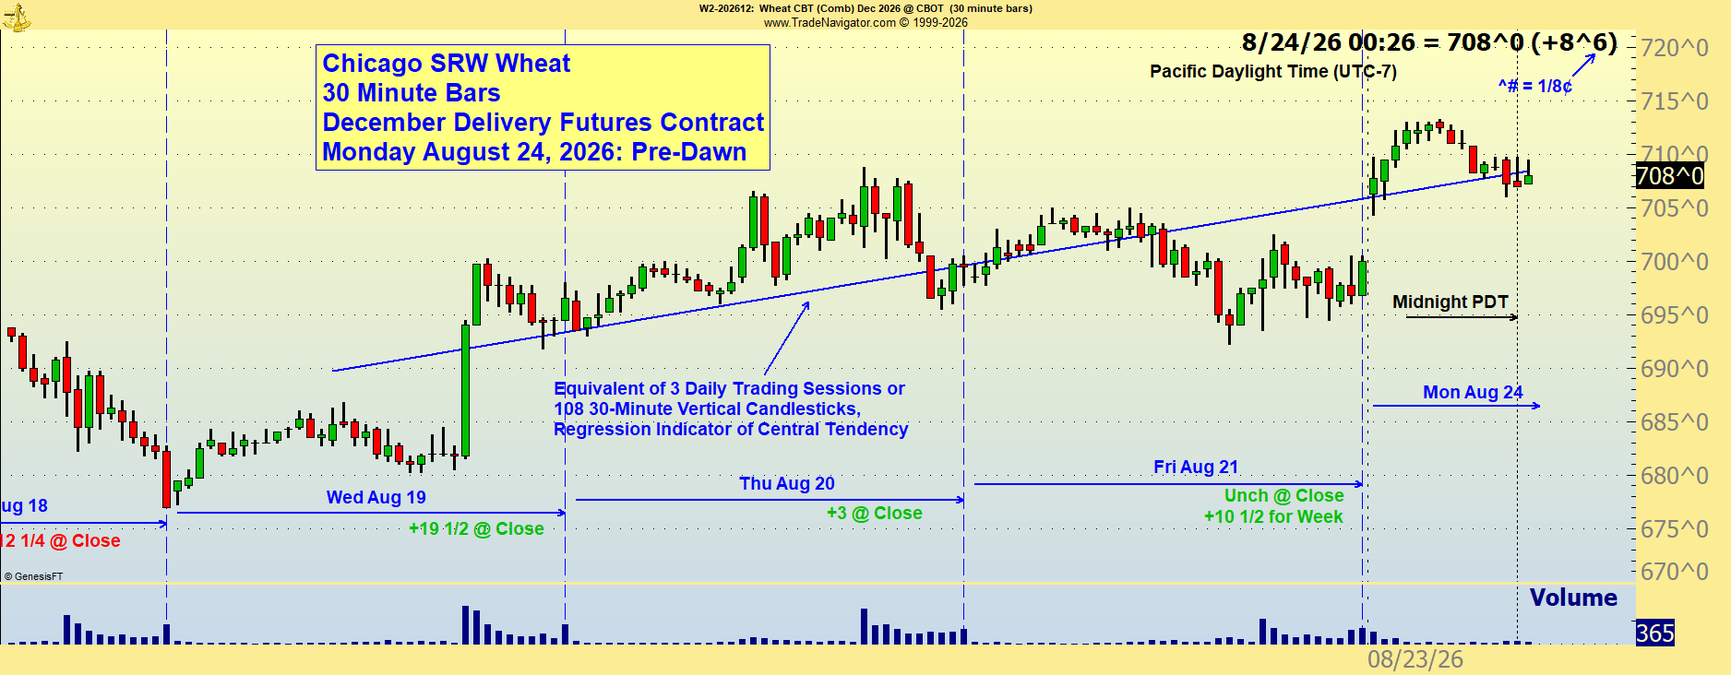
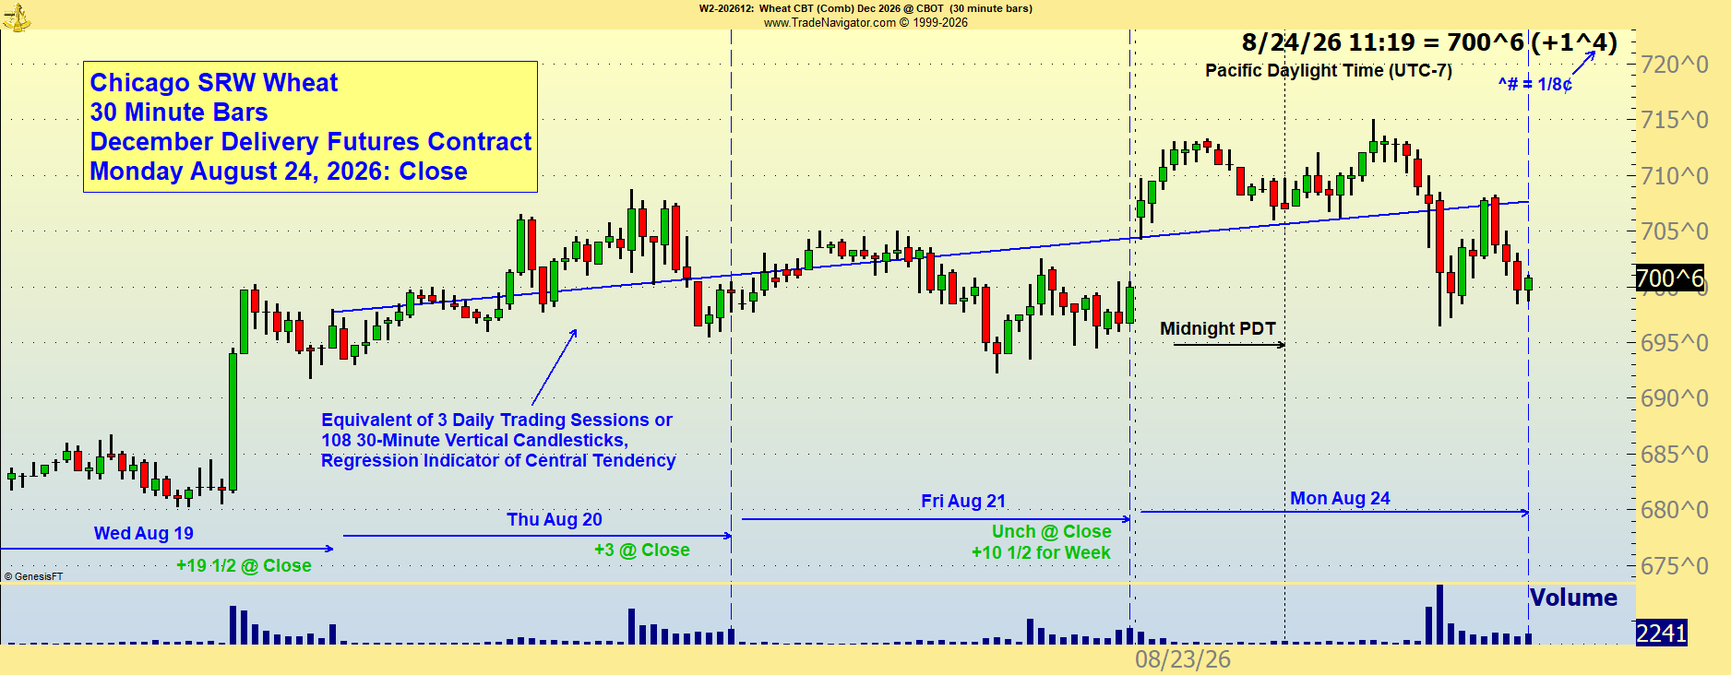
wheat close

diff --git a/devlogs/reports/report-2026-08-24.html b/devlogs/reports/report-2026-08-24.html
@@ -1,0 +1,184 @@
+<!DOCTYPE html>
+<html lang="en">
+<head>
+<meta charset="UTF-8">
+<meta name="viewport" content="width=device-width, initial-scale=1.0">
+<title>MarketBullets Daily Report 2026-08-24</title>
+<style>
+  :root {
+    --gold:  #D4A051;
+    --amber: #D4A574;
+    --blue:  #B8C5D6;
+    --bg:    #1a1a1a;
+    --line:  #2e2e2e;
+    --text:  #F5F5F0;
+    --dim:   #888;
+  }
+  * { box-sizing: border-box; margin: 0; padding: 0; }
+  body { font-family: Georgia, 'Times New Roman', serif; background: var(--bg);
+         color: var(--text); padding: 2rem 2.5rem; line-height: 1.6; }
+  header { border-bottom: 2px solid var(--gold); padding-bottom: 1rem; margin-bottom: 2rem; }
+  header h1 { color: var(--gold); font-size: 1.4rem; letter-spacing: 0.04em; }
+  header .meta { color: var(--blue); font-size: 0.85rem; margin-top: 0.25rem; }
+  h2 { color: var(--gold); font-size: 0.85rem; letter-spacing: 0.08em;
+       text-transform: uppercase; border-left: 3px solid var(--gold);
+       padding-left: 0.65rem; margin: 2rem 0 0.75rem; }
+  table { width: 100%; border-collapse: collapse; font-size: 0.875rem; }
+  th { text-align: left; color: var(--blue); padding: 0.4rem 0.6rem;
+       border-bottom: 1px solid var(--gold); font-family: 'Trebuchet MS', sans-serif;
+       font-size: 0.72rem; text-transform: uppercase; letter-spacing: 0.06em; }
+  td { padding: 0.35rem 0.6rem; border-bottom: 1px solid var(--line); vertical-align: middle; }
+  tr:hover td { background: #252525; }
+  a { color: var(--amber); text-decoration: none; }
+  a:hover { color: var(--gold); text-decoration: underline; }
+  .ts   { color: var(--dim); font-size: 0.8rem; font-family: monospace; white-space: nowrap; }
+  .ext  { color: var(--blue); font-size: 0.8rem; font-family: monospace; }
+  .empty { color: var(--dim); font-style: italic; padding: 0.6rem 0; }
+  footer { margin-top: 3rem; color: var(--dim); font-size: 0.75rem;
+           border-top: 1px solid var(--line); padding-top: 0.75rem;
+           font-family: 'Trebuchet MS', sans-serif; }
+</style>
+</head>
+<body>
+<header>
+  <h1>MarketBullets &mdash; Daily Activity Report</h1>
+  <div class="meta">2026-08-24 &nbsp;&bull;&nbsp; Generated 09:13</div>
+</header>
+<h2>Files Modified &mdash; Last 24 Hours</h2>
+<table>
+  <tr><th>Path</th><th>Type</th><th>Time</th><th>Size</th></tr>
+  <tr><td><a href='file:///C:/Users/hofer/OneDrive/Documents/GitHub/WEBSITECHARTS/tools/delay_updater.log'>tools/delay_updater.log</a></td><td class='ext'>.log</td><td class='ts'>01:49</td><td class='ts'>420 KB</td></tr>
+  <tr><td><a href='file:///C:/Users/hofer/OneDrive/Documents/GitHub/WEBSITECHARTS/charts/BNDS_30YR_Price_Q.png'>charts/BNDS_30YR_Price_Q.png</a></td><td class='ext'>.png</td><td class='ts'>01:49</td><td class='ts'>99.1 KB</td></tr>
+  <tr><td><a href='file:///C:/Users/hofer/OneDrive/Documents/GitHub/WEBSITECHARTS/charts/BNDS_10YR_Price_Q.png'>charts/BNDS_10YR_Price_Q.png</a></td><td class='ext'>.png</td><td class='ts'>01:49</td><td class='ts'>109.4 KB</td></tr>
+  <tr><td><a href='file:///C:/Users/hofer/OneDrive/Documents/GitHub/WEBSITECHARTS/charts/NRG_NG_M.png'>charts/NRG_NG_M.png</a></td><td class='ext'>.png</td><td class='ts'>01:48</td><td class='ts'>67.4 KB</td></tr>
+  <tr><td><a href='file:///C:/Users/hofer/OneDrive/Documents/GitHub/WEBSITECHARTS/charts/METL_HG_M.png'>charts/METL_HG_M.png</a></td><td class='ext'>.png</td><td class='ts'>01:46</td><td class='ts'>88.3 KB</td></tr>
+  <tr><td><a href='file:///C:/Users/hofer/OneDrive/Documents/GitHub/WEBSITECHARTS/charts/NRG_CL_W.png'>charts/NRG_CL_W.png</a></td><td class='ext'>.png</td><td class='ts'>01:45</td><td class='ts'>97.8 KB</td></tr>
+  <tr><td><a href='file:///C:/Users/hofer/OneDrive/Documents/GitHub/WEBSITECHARTS/charts/NRG_CL_M.png'>charts/NRG_CL_M.png</a></td><td class='ext'>.png</td><td class='ts'>01:44</td><td class='ts'>87.4 KB</td></tr>
+  <tr><td><a href='file:///C:/Users/hofer/OneDrive/Documents/GitHub/WEBSITECHARTS/charts/METL_GC_M.png'>charts/METL_GC_M.png</a></td><td class='ext'>.png</td><td class='ts'>01:44</td><td class='ts'>81.5 KB</td></tr>
+  <tr><td><a href='file:///C:/Users/hofer/OneDrive/Documents/GitHub/WEBSITECHARTS/charts/FX_WD_M.png'>charts/FX_WD_M.png</a></td><td class='ext'>.png</td><td class='ts'>01:43</td><td class='ts'>81.6 KB</td></tr>
+  <tr><td><a href='file:///C:/Users/hofer/OneDrive/Documents/GitHub/WEBSITECHARTS/charts/FX_RUB_USD_M.png'>charts/FX_RUB_USD_M.png</a></td><td class='ext'>.png</td><td class='ts'>01:42</td><td class='ts'>97 KB</td></tr>
+  <tr><td><a href='file:///C:/Users/hofer/OneDrive/Documents/GitHub/WEBSITECHARTS/charts/IDX_DXY_M.png'>charts/IDX_DXY_M.png</a></td><td class='ext'>.png</td><td class='ts'>01:42</td><td class='ts'>76.4 KB</td></tr>
+  <tr><td><a href='file:///C:/Users/hofer/OneDrive/Documents/GitHub/WEBSITECHARTS/charts/FX_CNY_USD_M.png'>charts/FX_CNY_USD_M.png</a></td><td class='ext'>.png</td><td class='ts'>01:41</td><td class='ts'>102.3 KB</td></tr>
+  <tr><td><a href='file:///C:/Users/hofer/OneDrive/Documents/GitHub/WEBSITECHARTS/charts/IDX_GSCI_W.png'>charts/IDX_GSCI_W.png</a></td><td class='ext'>.png</td><td class='ts'>01:41</td><td class='ts'>118.4 KB</td></tr>
+  <tr><td><a href='file:///C:/Users/hofer/OneDrive/Documents/GitHub/WEBSITECHARTS/charts/FX_RUB_CNY_W.png'>charts/FX_RUB_CNY_W.png</a></td><td class='ext'>.png</td><td class='ts'>01:41</td><td class='ts'>105.6 KB</td></tr>
+  <tr><td><a href='file:///C:/Users/hofer/OneDrive/Documents/GitHub/WEBSITECHARTS/charts/IDX_ES_M.png'>charts/IDX_ES_M.png</a></td><td class='ext'>.png</td><td class='ts'>01:39</td><td class='ts'>74.3 KB</td></tr>
+  <tr><td><a href='file:///C:/Users/hofer/OneDrive/Documents/GitHub/WEBSITECHARTS/charts/BNDS_2YR_TNOTE_W.png'>charts/BNDS_2YR_TNOTE_W.png</a></td><td class='ext'>.png</td><td class='ts'>01:38</td><td class='ts'>106.8 KB</td></tr>
+  <tr><td><a href='file:///C:/Users/hofer/OneDrive/Documents/GitHub/WEBSITECHARTS/charts/FX_WD_D.png'>charts/FX_WD_D.png</a></td><td class='ext'>.png</td><td class='ts'>01:38</td><td class='ts'>93 KB</td></tr>
+  <tr><td><a href='file:///C:/Users/hofer/OneDrive/Documents/GitHub/WEBSITECHARTS/charts/METL_SI_D.png'>charts/METL_SI_D.png</a></td><td class='ext'>.png</td><td class='ts'>01:38</td><td class='ts'>84 KB</td></tr>
+  <tr><td><a href='file:///C:/Users/hofer/OneDrive/Documents/GitHub/WEBSITECHARTS/charts/METL_GC_D.png'>charts/METL_GC_D.png</a></td><td class='ext'>.png</td><td class='ts'>01:37</td><td class='ts'>91.5 KB</td></tr>
+  <tr><td><a href='file:///C:/Users/hofer/OneDrive/Documents/GitHub/WEBSITECHARTS/charts/IDX_ES_D.png'>charts/IDX_ES_D.png</a></td><td class='ext'>.png</td><td class='ts'>01:37</td><td class='ts'>95.2 KB</td></tr>
+  <tr><td><a href='file:///C:/Users/hofer/OneDrive/Documents/GitHub/WEBSITECHARTS/charts/IDX_DXY_W.png'>charts/IDX_DXY_W.png</a></td><td class='ext'>.png</td><td class='ts'>01:37</td><td class='ts'>134.2 KB</td></tr>
+  <tr><td><a href='file:///C:/Users/hofer/OneDrive/Documents/GitHub/WEBSITECHARTS/tools/auto_commit.log'>tools/auto_commit.log</a></td><td class='ext'>.log</td><td class='ts'>01:23</td><td class='ts'>872.9 KB</td></tr>
+  <tr><td><a href='file:///C:/Users/hofer/OneDrive/Documents/GitHub/WEBSITECHARTS/charts/NRG_CL_D.png'>charts/NRG_CL_D.png</a></td><td class='ext'>.png</td><td class='ts'>01:22</td><td class='ts'>80.6 KB</td></tr>
+  <tr><td><a href='file:///C:/Users/hofer/OneDrive/Documents/GitHub/WEBSITECHARTS/charts/GRAIN_S_W.png'>charts/GRAIN_S_W.png</a></td><td class='ext'>.png</td><td class='ts'>01:19</td><td class='ts'>79.8 KB</td></tr>
+  <tr><td><a href='file:///C:/Users/hofer/OneDrive/Documents/GitHub/WEBSITECHARTS/charts/GRAIN_S_D.png'>charts/GRAIN_S_D.png</a></td><td class='ext'>.png</td><td class='ts'>01:18</td><td class='ts'>87.8 KB</td></tr>
+  <tr><td><a href='file:///C:/Users/hofer/OneDrive/Documents/GitHub/WEBSITECHARTS/charts/GRAIN_C_W.png'>charts/GRAIN_C_W.png</a></td><td class='ext'>.png</td><td class='ts'>01:18</td><td class='ts'>87.2 KB</td></tr>
+  <tr><td><a href='file:///C:/Users/hofer/OneDrive/Documents/GitHub/WEBSITECHARTS/charts/GRAIN_C_D.png'>charts/GRAIN_C_D.png</a></td><td class='ext'>.png</td><td class='ts'>01:16</td><td class='ts'>106.6 KB</td></tr>
+  <tr><td><a href='file:///C:/Users/hofer/OneDrive/Documents/GitHub/WEBSITECHARTS/charts/WHEAT_HRS_W.png'>charts/WHEAT_HRS_W.png</a></td><td class='ext'>.png</td><td class='ts'>01:13</td><td class='ts'>104.2 KB</td></tr>
+  <tr><td><a href='file:///C:/Users/hofer/OneDrive/Documents/GitHub/WEBSITECHARTS/charts/WHEAT_HRS_D.png'>charts/WHEAT_HRS_D.png</a></td><td class='ext'>.png</td><td class='ts'>01:12</td><td class='ts'>90.5 KB</td></tr>
+  <tr><td><a href='file:///C:/Users/hofer/OneDrive/Documents/GitHub/WEBSITECHARTS/charts/WHEAT_HRW_D.png'>charts/WHEAT_HRW_D.png</a></td><td class='ext'>.png</td><td class='ts'>01:11</td><td class='ts'>98.4 KB</td></tr>
+  <tr><td><a href='file:///C:/Users/hofer/OneDrive/Documents/GitHub/WEBSITECHARTS/charts/WHEAT_FWH_M.png'>charts/WHEAT_FWH_M.png</a></td><td class='ext'>.png</td><td class='ts'>01:10</td><td class='ts'>105.9 KB</td></tr>
+  <tr><td><a href='file:///C:/Users/hofer/OneDrive/Documents/GitHub/WEBSITECHARTS/charts/WHEAT_FWH_D.png'>charts/WHEAT_FWH_D.png</a></td><td class='ext'>.png</td><td class='ts'>01:08</td><td class='ts'>113 KB</td></tr>
+  <tr><td><a href='file:///C:/Users/hofer/OneDrive/Documents/GitHub/WEBSITECHARTS/charts/WHEAT_SRW_D.png'>charts/WHEAT_SRW_D.png</a></td><td class='ext'>.png</td><td class='ts'>01:04</td><td class='ts'>113.4 KB</td></tr>
+  <tr><td><a href='file:///C:/Users/hofer/OneDrive/Documents/GitHub/WEBSITECHARTS/charts/WHEAT_SRW_BOR_D.png'>charts/WHEAT_SRW_BOR_D.png</a></td><td class='ext'>.png</td><td class='ts'>01:04</td><td class='ts'>129.2 KB</td></tr>
+  <tr><td><a href='file:///C:/Users/hofer/OneDrive/Documents/GitHub/WEBSITECHARTS/charts/WHEAT_SRW_A.png'>charts/WHEAT_SRW_A.png</a></td><td class='ext'>.png</td><td class='ts'>01:03</td><td class='ts'>119.1 KB</td></tr>
+  <tr><td><a href='file:///C:/Users/hofer/OneDrive/Documents/GitHub/WEBSITECHARTS/charts/WHEAT_SRW_W.png'>charts/WHEAT_SRW_W.png</a></td><td class='ext'>.png</td><td class='ts'>01:03</td><td class='ts'>127.8 KB</td></tr>
+  <tr><td><a href='file:///C:/Users/hofer/OneDrive/Documents/GitHub/WEBSITECHARTS/charts/WHEAT_SRW_Special_M.png'>charts/WHEAT_SRW_Special_M.png</a></td><td class='ext'>.png</td><td class='ts'>01:03</td><td class='ts'>96.9 KB</td></tr>
+  <tr><td><a href='file:///C:/Users/hofer/OneDrive/Documents/GitHub/WEBSITECHARTS/charts/WHEAT_SRW_M.png'>charts/WHEAT_SRW_M.png</a></td><td class='ext'>.png</td><td class='ts'>01:02</td><td class='ts'>91.3 KB</td></tr>
+  <tr><td><a href='file:///C:/Users/hofer/OneDrive/Documents/GitHub/WEBSITECHARTS/charts/WHEAT_HRW_W.png'>charts/WHEAT_HRW_W.png</a></td><td class='ext'>.png</td><td class='ts'>01:01</td><td class='ts'>114.2 KB</td></tr>
+  <tr><td><a href='file:///C:/Users/hofer/OneDrive/Documents/GitHub/WEBSITECHARTS/charts/WHEAT_HRW_M.png'>charts/WHEAT_HRW_M.png</a></td><td class='ext'>.png</td><td class='ts'>01:00</td><td class='ts'>93.1 KB</td></tr>
+  <tr><td><a href='file:///C:/Users/hofer/OneDrive/Documents/GitHub/WEBSITECHARTS/charts/WHEAT_SRW_30Min.png'>charts/WHEAT_SRW_30Min.png</a></td><td class='ext'>.png</td><td class='ts'>00:37</td><td class='ts'>89.8 KB</td></tr>
+  <tr><td><a href='file:///C:/Users/hofer/OneDrive/Documents/GitHub/WEBSITECHARTS/charts/10daydelay/.last_updated'>charts/10daydelay/.last_updated</a></td><td class='ext'>.last_updated</td><td class='ts'>00:36</td><td class='ts'>10 B</td></tr>
+  <tr><td><a href='file:///C:/Users/hofer/OneDrive/Documents/GitHub/WEBSITECHARTS/charts/10daydelay/WHEAT_SRW_WOLD.png'>charts/10daydelay/WHEAT_SRW_WOLD.png</a></td><td class='ext'>.png</td><td class='ts'>00:36</td><td class='ts'>129.6 KB</td></tr>
+  <tr><td><a href='file:///C:/Users/hofer/OneDrive/Documents/GitHub/WEBSITECHARTS/charts/10daydelay/WHEAT_SRW_Special_MOLD.png'>charts/10daydelay/WHEAT_SRW_Special_MOLD.png</a></td><td class='ext'>.png</td><td class='ts'>00:36</td><td class='ts'>85.9 KB</td></tr>
+  <tr><td><a href='file:///C:/Users/hofer/OneDrive/Documents/GitHub/WEBSITECHARTS/charts/10daydelay/WHEAT_SRW_MOLD.png'>charts/10daydelay/WHEAT_SRW_MOLD.png</a></td><td class='ext'>.png</td><td class='ts'>00:36</td><td class='ts'>89.8 KB</td></tr>
+  <tr><td><a href='file:///C:/Users/hofer/OneDrive/Documents/GitHub/WEBSITECHARTS/charts/10daydelay/WHEAT_SRW_DOLD.png'>charts/10daydelay/WHEAT_SRW_DOLD.png</a></td><td class='ext'>.png</td><td class='ts'>00:36</td><td class='ts'>105.7 KB</td></tr>
+  <tr><td><a href='file:///C:/Users/hofer/OneDrive/Documents/GitHub/WEBSITECHARTS/charts/10daydelay/WHEAT_SRW_BOR_DOLD.png'>charts/10daydelay/WHEAT_SRW_BOR_DOLD.png</a></td><td class='ext'>.png</td><td class='ts'>00:36</td><td class='ts'>141.6 KB</td></tr>
+  <tr><td><a href='file:///C:/Users/hofer/OneDrive/Documents/GitHub/WEBSITECHARTS/charts/10daydelay/WHEAT_SRW_AOLD.png'>charts/10daydelay/WHEAT_SRW_AOLD.png</a></td><td class='ext'>.png</td><td class='ts'>00:36</td><td class='ts'>118.2 KB</td></tr>
+  <tr><td><a href='file:///C:/Users/hofer/OneDrive/Documents/GitHub/WEBSITECHARTS/charts/10daydelay/WHEAT_SRW_30MinOLD.png'>charts/10daydelay/WHEAT_SRW_30MinOLD.png</a></td><td class='ext'>.png</td><td class='ts'>00:36</td><td class='ts'>89.6 KB</td></tr>
+  <tr><td><a href='file:///C:/Users/hofer/OneDrive/Documents/GitHub/WEBSITECHARTS/charts/10daydelay/WHEAT_HRW_WOLD.png'>charts/10daydelay/WHEAT_HRW_WOLD.png</a></td><td class='ext'>.png</td><td class='ts'>00:36</td><td class='ts'>128.8 KB</td></tr>
+  <tr><td><a href='file:///C:/Users/hofer/OneDrive/Documents/GitHub/WEBSITECHARTS/charts/10daydelay/WHEAT_HRW_MOLD.png'>charts/10daydelay/WHEAT_HRW_MOLD.png</a></td><td class='ext'>.png</td><td class='ts'>00:36</td><td class='ts'>89.2 KB</td></tr>
+  <tr><td><a href='file:///C:/Users/hofer/OneDrive/Documents/GitHub/WEBSITECHARTS/charts/10daydelay/WHEAT_HRW_DOLD.png'>charts/10daydelay/WHEAT_HRW_DOLD.png</a></td><td class='ext'>.png</td><td class='ts'>00:36</td><td class='ts'>96.6 KB</td></tr>
+  <tr><td><a href='file:///C:/Users/hofer/OneDrive/Documents/GitHub/WEBSITECHARTS/charts/10daydelay/WHEAT_HRS_WOLD.png'>charts/10daydelay/WHEAT_HRS_WOLD.png</a></td><td class='ext'>.png</td><td class='ts'>00:36</td><td class='ts'>96.6 KB</td></tr>
+  <tr><td><a href='file:///C:/Users/hofer/OneDrive/Documents/GitHub/WEBSITECHARTS/charts/10daydelay/WHEAT_HRS_MOLD.png'>charts/10daydelay/WHEAT_HRS_MOLD.png</a></td><td class='ext'>.png</td><td class='ts'>00:36</td><td class='ts'>85.7 KB</td></tr>
+  <tr><td><a href='file:///C:/Users/hofer/OneDrive/Documents/GitHub/WEBSITECHARTS/charts/10daydelay/WHEAT_HRS_DOLD.png'>charts/10daydelay/WHEAT_HRS_DOLD.png</a></td><td class='ext'>.png</td><td class='ts'>00:36</td><td class='ts'>96 KB</td></tr>
+  <tr><td><a href='file:///C:/Users/hofer/OneDrive/Documents/GitHub/WEBSITECHARTS/charts/10daydelay/WHEAT_FWH_WOLD.png'>charts/10daydelay/WHEAT_FWH_WOLD.png</a></td><td class='ext'>.png</td><td class='ts'>00:36</td><td class='ts'>121 KB</td></tr>
+  <tr><td><a href='file:///C:/Users/hofer/OneDrive/Documents/GitHub/WEBSITECHARTS/charts/10daydelay/WHEAT_FWH_MOLD.png'>charts/10daydelay/WHEAT_FWH_MOLD.png</a></td><td class='ext'>.png</td><td class='ts'>00:36</td><td class='ts'>106.4 KB</td></tr>
+  <tr><td><a href='file:///C:/Users/hofer/OneDrive/Documents/GitHub/WEBSITECHARTS/charts/10daydelay/WHEAT_FWH_DOLD.png'>charts/10daydelay/WHEAT_FWH_DOLD.png</a></td><td class='ext'>.png</td><td class='ts'>00:36</td><td class='ts'>111.3 KB</td></tr>
+  <tr><td><a href='file:///C:/Users/hofer/OneDrive/Documents/GitHub/WEBSITECHARTS/charts/10daydelay/SPDINTER_SRW_HRW_MOLD.png'>charts/10daydelay/SPDINTER_SRW_HRW_MOLD.png</a></td><td class='ext'>.png</td><td class='ts'>00:36</td><td class='ts'>75.6 KB</td></tr>
+  <tr><td><a href='file:///C:/Users/hofer/OneDrive/Documents/GitHub/WEBSITECHARTS/charts/10daydelay/SPDINTER_SRW_HRS_MOLD.png'>charts/10daydelay/SPDINTER_SRW_HRS_MOLD.png</a></td><td class='ext'>.png</td><td class='ts'>00:36</td><td class='ts'>84 KB</td></tr>
+  <tr><td><a href='file:///C:/Users/hofer/OneDrive/Documents/GitHub/WEBSITECHARTS/charts/10daydelay/SPDINTER_HRW_FWH_WOLD.png'>charts/10daydelay/SPDINTER_HRW_FWH_WOLD.png</a></td><td class='ext'>.png</td><td class='ts'>00:36</td><td class='ts'>100 KB</td></tr>
+  <tr><td><a href='file:///C:/Users/hofer/OneDrive/Documents/GitHub/WEBSITECHARTS/charts/10daydelay/SPDINTER_HRW_FWH_MOLD.png'>charts/10daydelay/SPDINTER_HRW_FWH_MOLD.png</a></td><td class='ext'>.png</td><td class='ts'>00:36</td><td class='ts'>105.5 KB</td></tr>
+  <tr><td><a href='file:///C:/Users/hofer/OneDrive/Documents/GitHub/WEBSITECHARTS/charts/10daydelay/SPDINTER_HRS_HRW_MOLD.png'>charts/10daydelay/SPDINTER_HRS_HRW_MOLD.png</a></td><td class='ext'>.png</td><td class='ts'>00:36</td><td class='ts'>81.3 KB</td></tr>
+  <tr><td><a href='file:///C:/Users/hofer/OneDrive/Documents/GitHub/WEBSITECHARTS/charts/10daydelay/SPD_SRW_Z_H2OLD.png'>charts/10daydelay/SPD_SRW_Z_H2OLD.png</a></td><td class='ext'>.png</td><td class='ts'>00:36</td><td class='ts'>70.8 KB</td></tr>
+  <tr><td><a href='file:///C:/Users/hofer/OneDrive/Documents/GitHub/WEBSITECHARTS/charts/10daydelay/SPD_SRW_U_ZOLD.png'>charts/10daydelay/SPD_SRW_U_ZOLD.png</a></td><td class='ext'>.png</td><td class='ts'>00:36</td><td class='ts'>62.9 KB</td></tr>
+  <tr><td><a href='file:///C:/Users/hofer/OneDrive/Documents/GitHub/WEBSITECHARTS/charts/10daydelay/SPD_SRW_N_UOLD.png'>charts/10daydelay/SPD_SRW_N_UOLD.png</a></td><td class='ext'>.png</td><td class='ts'>00:36</td><td class='ts'>72.8 KB</td></tr>
+  <tr><td><a href='file:///C:/Users/hofer/OneDrive/Documents/GitHub/WEBSITECHARTS/charts/10daydelay/SPD_SRW_K_NOLD.png'>charts/10daydelay/SPD_SRW_K_NOLD.png</a></td><td class='ext'>.png</td><td class='ts'>00:36</td><td class='ts'>72.6 KB</td></tr>
+  <tr><td><a href='file:///C:/Users/hofer/OneDrive/Documents/GitHub/WEBSITECHARTS/charts/10daydelay/SPD_SRW_H_KOLD.png'>charts/10daydelay/SPD_SRW_H_KOLD.png</a></td><td class='ext'>.png</td><td class='ts'>00:36</td><td class='ts'>66.6 KB</td></tr>
+  <tr><td><a href='file:///C:/Users/hofer/OneDrive/Documents/GitHub/WEBSITECHARTS/charts/10daydelay/SPD_HRW_Z_H2OLD.png'>charts/10daydelay/SPD_HRW_Z_H2OLD.png</a></td><td class='ext'>.png</td><td class='ts'>00:36</td><td class='ts'>76.5 KB</td></tr>
+  <tr><td><a href='file:///C:/Users/hofer/OneDrive/Documents/GitHub/WEBSITECHARTS/charts/10daydelay/SPD_HRW_U_ZOLD.png'>charts/10daydelay/SPD_HRW_U_ZOLD.png</a></td><td class='ext'>.png</td><td class='ts'>00:36</td><td class='ts'>63.2 KB</td></tr>
+  <tr><td><a href='file:///C:/Users/hofer/OneDrive/Documents/GitHub/WEBSITECHARTS/charts/10daydelay/SPD_HRW_N_UOLD.png'>charts/10daydelay/SPD_HRW_N_UOLD.png</a></td><td class='ext'>.png</td><td class='ts'>00:36</td><td class='ts'>84.7 KB</td></tr>
+  <tr><td><a href='file:///C:/Users/hofer/OneDrive/Documents/GitHub/WEBSITECHARTS/charts/10daydelay/SPD_HRW_K_NOLD.png'>charts/10daydelay/SPD_HRW_K_NOLD.png</a></td><td class='ext'>.png</td><td class='ts'>00:36</td><td class='ts'>88.8 KB</td></tr>
+  <tr><td><a href='file:///C:/Users/hofer/OneDrive/Documents/GitHub/WEBSITECHARTS/charts/10daydelay/SPD_HRW_H_KOLD.png'>charts/10daydelay/SPD_HRW_H_KOLD.png</a></td><td class='ext'>.png</td><td class='ts'>00:36</td><td class='ts'>65.1 KB</td></tr>
+  <tr><td><a href='file:///C:/Users/hofer/OneDrive/Documents/GitHub/WEBSITECHARTS/charts/10daydelay/SPD_HRS_Z_H2OLD.png'>charts/10daydelay/SPD_HRS_Z_H2OLD.png</a></td><td class='ext'>.png</td><td class='ts'>00:36</td><td class='ts'>60.5 KB</td></tr>
+  <tr><td><a href='file:///C:/Users/hofer/OneDrive/Documents/GitHub/WEBSITECHARTS/charts/10daydelay/SPD_HRS_U_ZOLD.png'>charts/10daydelay/SPD_HRS_U_ZOLD.png</a></td><td class='ext'>.png</td><td class='ts'>00:36</td><td class='ts'>66 KB</td></tr>
+  <tr><td><a href='file:///C:/Users/hofer/OneDrive/Documents/GitHub/WEBSITECHARTS/charts/10daydelay/SPD_HRS_N_UOLD.png'>charts/10daydelay/SPD_HRS_N_UOLD.png</a></td><td class='ext'>.png</td><td class='ts'>00:36</td><td class='ts'>76.6 KB</td></tr>
+  <tr><td><a href='file:///C:/Users/hofer/OneDrive/Documents/GitHub/WEBSITECHARTS/charts/10daydelay/SPD_HRS_K_NOLD.png'>charts/10daydelay/SPD_HRS_K_NOLD.png</a></td><td class='ext'>.png</td><td class='ts'>00:36</td><td class='ts'>56.8 KB</td></tr>
+  <tr><td><a href='file:///C:/Users/hofer/OneDrive/Documents/GitHub/WEBSITECHARTS/charts/10daydelay/SPD_HRS_H_KOLD.png'>charts/10daydelay/SPD_HRS_H_KOLD.png</a></td><td class='ext'>.png</td><td class='ts'>00:36</td><td class='ts'>62.7 KB</td></tr>
+  <tr><td><a href='file:///C:/Users/hofer/OneDrive/Documents/GitHub/WEBSITECHARTS/charts/10daydelay/SPD_FWH_Z_H2OLD.png'>charts/10daydelay/SPD_FWH_Z_H2OLD.png</a></td><td class='ext'>.png</td><td class='ts'>00:36</td><td class='ts'>68.3 KB</td></tr>
+  <tr><td><a href='file:///C:/Users/hofer/OneDrive/Documents/GitHub/WEBSITECHARTS/charts/10daydelay/SPD_FWH_U_ZOLD.png'>charts/10daydelay/SPD_FWH_U_ZOLD.png</a></td><td class='ext'>.png</td><td class='ts'>00:36</td><td class='ts'>83.8 KB</td></tr>
+  <tr><td><a href='file:///C:/Users/hofer/OneDrive/Documents/GitHub/WEBSITECHARTS/charts/10daydelay/SPD_FWH_K_UOLD.png'>charts/10daydelay/SPD_FWH_K_UOLD.png</a></td><td class='ext'>.png</td><td class='ts'>00:36</td><td class='ts'>89.8 KB</td></tr>
+  <tr><td><a href='file:///C:/Users/hofer/OneDrive/Documents/GitHub/WEBSITECHARTS/charts/10daydelay/SPD_FWH_K2_U2OLD.png'>charts/10daydelay/SPD_FWH_K2_U2OLD.png</a></td><td class='ext'>.png</td><td class='ts'>00:36</td><td class='ts'>89.9 KB</td></tr>
+  <tr><td><a href='file:///C:/Users/hofer/OneDrive/Documents/GitHub/WEBSITECHARTS/charts/10daydelay/SPD_FWH_H_KOLD.png'>charts/10daydelay/SPD_FWH_H_KOLD.png</a></td><td class='ext'>.png</td><td class='ts'>00:36</td><td class='ts'>67.5 KB</td></tr>
+  <tr><td><a href='file:///C:/Users/hofer/OneDrive/Documents/GitHub/WEBSITECHARTS/charts/10daydelay/RATIO_SRW_C_MOLD.png'>charts/10daydelay/RATIO_SRW_C_MOLD.png</a></td><td class='ext'>.png</td><td class='ts'>00:36</td><td class='ts'>86.9 KB</td></tr>
+  <tr><td><a href='file:///C:/Users/hofer/OneDrive/Documents/GitHub/WEBSITECHARTS/charts/10daydelay/RATIO_S_C_WOLD.png'>charts/10daydelay/RATIO_S_C_WOLD.png</a></td><td class='ext'>.png</td><td class='ts'>00:36</td><td class='ts'>71.9 KB</td></tr>
+  <tr><td><a href='file:///C:/Users/hofer/OneDrive/Documents/GitHub/WEBSITECHARTS/charts/10daydelay/NRG_NG_MOLD.png'>charts/10daydelay/NRG_NG_MOLD.png</a></td><td class='ext'>.png</td><td class='ts'>00:36</td><td class='ts'>66.5 KB</td></tr>
+  <tr><td><a href='file:///C:/Users/hofer/OneDrive/Documents/GitHub/WEBSITECHARTS/charts/10daydelay/NRG_HO_DOLD.png'>charts/10daydelay/NRG_HO_DOLD.png</a></td><td class='ext'>.png</td><td class='ts'>00:36</td><td class='ts'>78.9 KB</td></tr>
+  <tr><td><a href='file:///C:/Users/hofer/OneDrive/Documents/GitHub/WEBSITECHARTS/charts/10daydelay/NRG_CL_WOLD.png'>charts/10daydelay/NRG_CL_WOLD.png</a></td><td class='ext'>.png</td><td class='ts'>00:36</td><td class='ts'>99.4 KB</td></tr>
+  <tr><td><a href='file:///C:/Users/hofer/OneDrive/Documents/GitHub/WEBSITECHARTS/charts/10daydelay/NRG_CL_MOLD.png'>charts/10daydelay/NRG_CL_MOLD.png</a></td><td class='ext'>.png</td><td class='ts'>00:36</td><td class='ts'>87.4 KB</td></tr>
+  <tr><td><a href='file:///C:/Users/hofer/OneDrive/Documents/GitHub/WEBSITECHARTS/charts/10daydelay/NRG_CL_DOLD.png'>charts/10daydelay/NRG_CL_DOLD.png</a></td><td class='ext'>.png</td><td class='ts'>00:36</td><td class='ts'>78.6 KB</td></tr>
+  <tr><td><a href='file:///C:/Users/hofer/OneDrive/Documents/GitHub/WEBSITECHARTS/charts/10daydelay/MISC_CC_MOLD.png'>charts/10daydelay/MISC_CC_MOLD.png</a></td><td class='ext'>.png</td><td class='ts'>00:36</td><td class='ts'>67.6 KB</td></tr>
+  <tr><td><a href='file:///C:/Users/hofer/OneDrive/Documents/GitHub/WEBSITECHARTS/charts/10daydelay/METL_SI_DOLD.png'>charts/10daydelay/METL_SI_DOLD.png</a></td><td class='ext'>.png</td><td class='ts'>00:36</td><td class='ts'>85.6 KB</td></tr>
+  <tr><td><a href='file:///C:/Users/hofer/OneDrive/Documents/GitHub/WEBSITECHARTS/charts/10daydelay/METL_HG_MOLD.png'>charts/10daydelay/METL_HG_MOLD.png</a></td><td class='ext'>.png</td><td class='ts'>00:36</td><td class='ts'>88.5 KB</td></tr>
+  <tr><td><a href='file:///C:/Users/hofer/OneDrive/Documents/GitHub/WEBSITECHARTS/charts/10daydelay/METL_GC_MOLD.png'>charts/10daydelay/METL_GC_MOLD.png</a></td><td class='ext'>.png</td><td class='ts'>00:36</td><td class='ts'>80.9 KB</td></tr>
+  <tr><td><a href='file:///C:/Users/hofer/OneDrive/Documents/GitHub/WEBSITECHARTS/charts/10daydelay/METL_GC_DOLD.png'>charts/10daydelay/METL_GC_DOLD.png</a></td><td class='ext'>.png</td><td class='ts'>00:36</td><td class='ts'>87.2 KB</td></tr>
+  <tr><td><a href='file:///C:/Users/hofer/OneDrive/Documents/GitHub/WEBSITECHARTS/charts/10daydelay/IDX_GSCI_WOLD.png'>charts/10daydelay/IDX_GSCI_WOLD.png</a></td><td class='ext'>.png</td><td class='ts'>00:36</td><td class='ts'>118.1 KB</td></tr>
+  <tr><td><a href='file:///C:/Users/hofer/OneDrive/Documents/GitHub/WEBSITECHARTS/charts/10daydelay/IDX_ES_MOLD.png'>charts/10daydelay/IDX_ES_MOLD.png</a></td><td class='ext'>.png</td><td class='ts'>00:36</td><td class='ts'>73.5 KB</td></tr>
+  <tr><td><a href='file:///C:/Users/hofer/OneDrive/Documents/GitHub/WEBSITECHARTS/charts/10daydelay/IDX_ES_DOLD.png'>charts/10daydelay/IDX_ES_DOLD.png</a></td><td class='ext'>.png</td><td class='ts'>00:36</td><td class='ts'>92.4 KB</td></tr>
+  <tr><td><a href='file:///C:/Users/hofer/OneDrive/Documents/GitHub/WEBSITECHARTS/charts/10daydelay/IDX_DXY_WOLD.png'>charts/10daydelay/IDX_DXY_WOLD.png</a></td><td class='ext'>.png</td><td class='ts'>00:36</td><td class='ts'>135.7 KB</td></tr>
+  <tr><td><a href='file:///C:/Users/hofer/OneDrive/Documents/GitHub/WEBSITECHARTS/charts/10daydelay/IDX_DXY_MOLD.png'>charts/10daydelay/IDX_DXY_MOLD.png</a></td><td class='ext'>.png</td><td class='ts'>00:36</td><td class='ts'>75 KB</td></tr>
+  <tr><td><a href='file:///C:/Users/hofer/OneDrive/Documents/GitHub/WEBSITECHARTS/charts/10daydelay/IDX_BDI_WOLD.png'>charts/10daydelay/IDX_BDI_WOLD.png</a></td><td class='ext'>.png</td><td class='ts'>00:36</td><td class='ts'>92.1 KB</td></tr>
+  <tr><td><a href='file:///C:/Users/hofer/OneDrive/Documents/GitHub/WEBSITECHARTS/charts/10daydelay/GRAIN_S_WOLD.png'>charts/10daydelay/GRAIN_S_WOLD.png</a></td><td class='ext'>.png</td><td class='ts'>00:36</td><td class='ts'>79.1 KB</td></tr>
+  <tr><td><a href='file:///C:/Users/hofer/OneDrive/Documents/GitHub/WEBSITECHARTS/charts/10daydelay/GRAIN_S_DOLD.png'>charts/10daydelay/GRAIN_S_DOLD.png</a></td><td class='ext'>.png</td><td class='ts'>00:36</td><td class='ts'>81.2 KB</td></tr>
+  <tr><td><a href='file:///C:/Users/hofer/OneDrive/Documents/GitHub/WEBSITECHARTS/charts/10daydelay/GRAIN_C_WOLD.png'>charts/10daydelay/GRAIN_C_WOLD.png</a></td><td class='ext'>.png</td><td class='ts'>00:36</td><td class='ts'>83.7 KB</td></tr>
+  <tr><td><a href='file:///C:/Users/hofer/OneDrive/Documents/GitHub/WEBSITECHARTS/charts/10daydelay/GRAIN_C_DOLD.png'>charts/10daydelay/GRAIN_C_DOLD.png</a></td><td class='ext'>.png</td><td class='ts'>00:36</td><td class='ts'>106.8 KB</td></tr>
+  <tr><td><a href='file:///C:/Users/hofer/OneDrive/Documents/GitHub/WEBSITECHARTS/charts/10daydelay/FX_WD_MOLD.png'>charts/10daydelay/FX_WD_MOLD.png</a></td><td class='ext'>.png</td><td class='ts'>00:36</td><td class='ts'>80.5 KB</td></tr>
+  <tr><td><a href='file:///C:/Users/hofer/OneDrive/Documents/GitHub/WEBSITECHARTS/charts/10daydelay/FX_WD_DOLD.png'>charts/10daydelay/FX_WD_DOLD.png</a></td><td class='ext'>.png</td><td class='ts'>00:36</td><td class='ts'>86.3 KB</td></tr>
+  <tr><td><a href='file:///C:/Users/hofer/OneDrive/Documents/GitHub/WEBSITECHARTS/charts/10daydelay/FX_RUB_USD_MOLD.png'>charts/10daydelay/FX_RUB_USD_MOLD.png</a></td><td class='ext'>.png</td><td class='ts'>00:36</td><td class='ts'>95.5 KB</td></tr>
+  <tr><td><a href='file:///C:/Users/hofer/OneDrive/Documents/GitHub/WEBSITECHARTS/charts/10daydelay/FX_RUB_CNY_WOLD.png'>charts/10daydelay/FX_RUB_CNY_WOLD.png</a></td><td class='ext'>.png</td><td class='ts'>00:36</td><td class='ts'>102.7 KB</td></tr>
+  <tr><td><a href='file:///C:/Users/hofer/OneDrive/Documents/GitHub/WEBSITECHARTS/charts/10daydelay/FX_CNY_USD_MOLD.png'>charts/10daydelay/FX_CNY_USD_MOLD.png</a></td><td class='ext'>.png</td><td class='ts'>00:36</td><td class='ts'>102.1 KB</td></tr>
+  <tr><td><a href='file:///C:/Users/hofer/OneDrive/Documents/GitHub/WEBSITECHARTS/charts/10daydelay/FIN_WEAT_DOLD.png'>charts/10daydelay/FIN_WEAT_DOLD.png</a></td><td class='ext'>.png</td><td class='ts'>00:36</td><td class='ts'>95.2 KB</td></tr>
+  <tr><td><a href='file:///C:/Users/hofer/OneDrive/Documents/GitHub/WEBSITECHARTS/charts/10daydelay/FIN_UNP_DOLD.png'>charts/10daydelay/FIN_UNP_DOLD.png</a></td><td class='ext'>.png</td><td class='ts'>00:36</td><td class='ts'>63.1 KB</td></tr>
+  <tr><td><a href='file:///C:/Users/hofer/OneDrive/Documents/GitHub/WEBSITECHARTS/charts/10daydelay/FIN_HD_DOLD.png'>charts/10daydelay/FIN_HD_DOLD.png</a></td><td class='ext'>.png</td><td class='ts'>00:36</td><td class='ts'>93.1 KB</td></tr>
+  <tr><td><a href='file:///C:/Users/hofer/OneDrive/Documents/GitHub/WEBSITECHARTS/charts/10daydelay/FIN_DE_DOLD.png'>charts/10daydelay/FIN_DE_DOLD.png</a></td><td class='ext'>.png</td><td class='ts'>00:36</td><td class='ts'>73.5 KB</td></tr>
+  <tr><td><a href='file:///C:/Users/hofer/OneDrive/Documents/GitHub/WEBSITECHARTS/charts/10daydelay/FIN_CHSCP_DOLD.png'>charts/10daydelay/FIN_CHSCP_DOLD.png</a></td><td class='ext'>.png</td><td class='ts'>00:36</td><td class='ts'>78.9 KB</td></tr>
+  <tr><td><a href='file:///C:/Users/hofer/OneDrive/Documents/GitHub/WEBSITECHARTS/charts/10daydelay/FIN_CAT_DOLD.png'>charts/10daydelay/FIN_CAT_DOLD.png</a></td><td class='ext'>.png</td><td class='ts'>00:36</td><td class='ts'>57.3 KB</td></tr>
+  <tr><td><a href='file:///C:/Users/hofer/OneDrive/Documents/GitHub/WEBSITECHARTS/charts/10daydelay/FIN_BG_DOLD.png'>charts/10daydelay/FIN_BG_DOLD.png</a></td><td class='ext'>.png</td><td class='ts'>00:36</td><td class='ts'>50.5 KB</td></tr>
+  <tr><td><a href='file:///C:/Users/hofer/OneDrive/Documents/GitHub/WEBSITECHARTS/charts/10daydelay/FIN_ADM_DOLD.png'>charts/10daydelay/FIN_ADM_DOLD.png</a></td><td class='ext'>.png</td><td class='ts'>00:36</td><td class='ts'>59.4 KB</td></tr>
+  <tr><td><a href='file:///C:/Users/hofer/OneDrive/Documents/GitHub/WEBSITECHARTS/charts/10daydelay/COT_SRW_WOLD.png'>charts/10daydelay/COT_SRW_WOLD.png</a></td><td class='ext'>.png</td><td class='ts'>00:36</td><td class='ts'>99.6 KB</td></tr>
+  <tr><td><a href='file:///C:/Users/hofer/OneDrive/Documents/GitHub/WEBSITECHARTS/charts/10daydelay/COT_HRW_WOLD.png'>charts/10daydelay/COT_HRW_WOLD.png</a></td><td class='ext'>.png</td><td class='ts'>00:36</td><td class='ts'>75.9 KB</td></tr>
+  <tr><td><a href='file:///C:/Users/hofer/OneDrive/Documents/GitHub/WEBSITECHARTS/charts/10daydelay/BNDS_30YR_Yield_QOLD.png'>charts/10daydelay/BNDS_30YR_Yield_QOLD.png</a></td><td class='ext'>.png</td><td class='ts'>00:36</td><td class='ts'>98.2 KB</td></tr>
+  <tr><td><a href='file:///C:/Users/hofer/OneDrive/Documents/GitHub/WEBSITECHARTS/charts/10daydelay/BNDS_30YR_Price_QOLD.png'>charts/10daydelay/BNDS_30YR_Price_QOLD.png</a></td><td class='ext'>.png</td><td class='ts'>00:36</td><td class='ts'>99.4 KB</td></tr>
+  <tr><td><a href='file:///C:/Users/hofer/OneDrive/Documents/GitHub/WEBSITECHARTS/charts/10daydelay/BNDS_2YR_TNOTE_WOLD.png'>charts/10daydelay/BNDS_2YR_TNOTE_WOLD.png</a></td><td class='ext'>.png</td><td class='ts'>00:36</td><td class='ts'>108.4 KB</td></tr>
+  <tr><td><a href='file:///C:/Users/hofer/OneDrive/Documents/GitHub/WEBSITECHARTS/charts/10daydelay/BNDS_10YR_Price_QOLD.png'>charts/10daydelay/BNDS_10YR_Price_QOLD.png</a></td><td class='ext'>.png</td><td class='ts'>00:36</td><td class='ts'>108.8 KB</td></tr>
+  <tr><td><a href='file:///C:/Users/hofer/OneDrive/Documents/GitHub/WEBSITECHARTS/tools/eod_reports/eod_runner.log'>tools/eod_reports/eod_runner.log</a></td><td class='ext'>.log</td><td class='ts'>15:14</td><td class='ts'>315.6 KB</td></tr>
+  <tr><td><a href='file:///C:/Users/hofer/OneDrive/Documents/GitHub/WEBSITECHARTS/tools/eod_reports/eod_20260823.txt'>tools/eod_reports/eod_20260823.txt</a></td><td class='ext'>.txt</td><td class='ts'>15:14</td><td class='ts'>1.8 KB</td></tr>
+</table>
+<h2>Claude Session Records</h2>
+<table>
+  <tr><th>Transcript</th><th>Last Active</th></tr>
+  <tr><td colspan='2' class='empty'>No Claude sessions recorded in the last 24 hours.</td></tr>
+</table>
+<footer>MarketBullets LLC &nbsp;&bull;&nbsp; Auto-generated by daily_report.ps1</footer>
+</body>
+</html>
